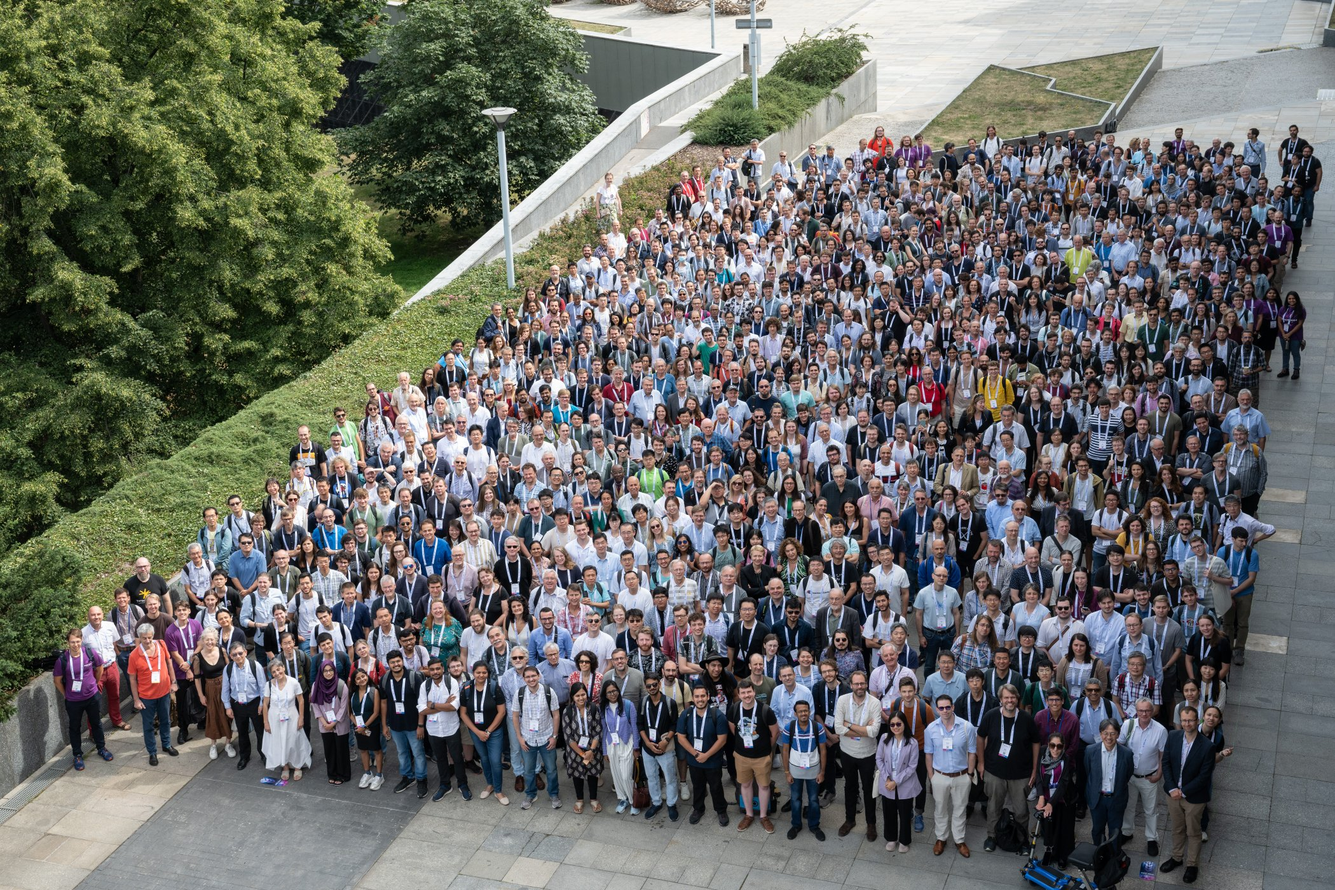
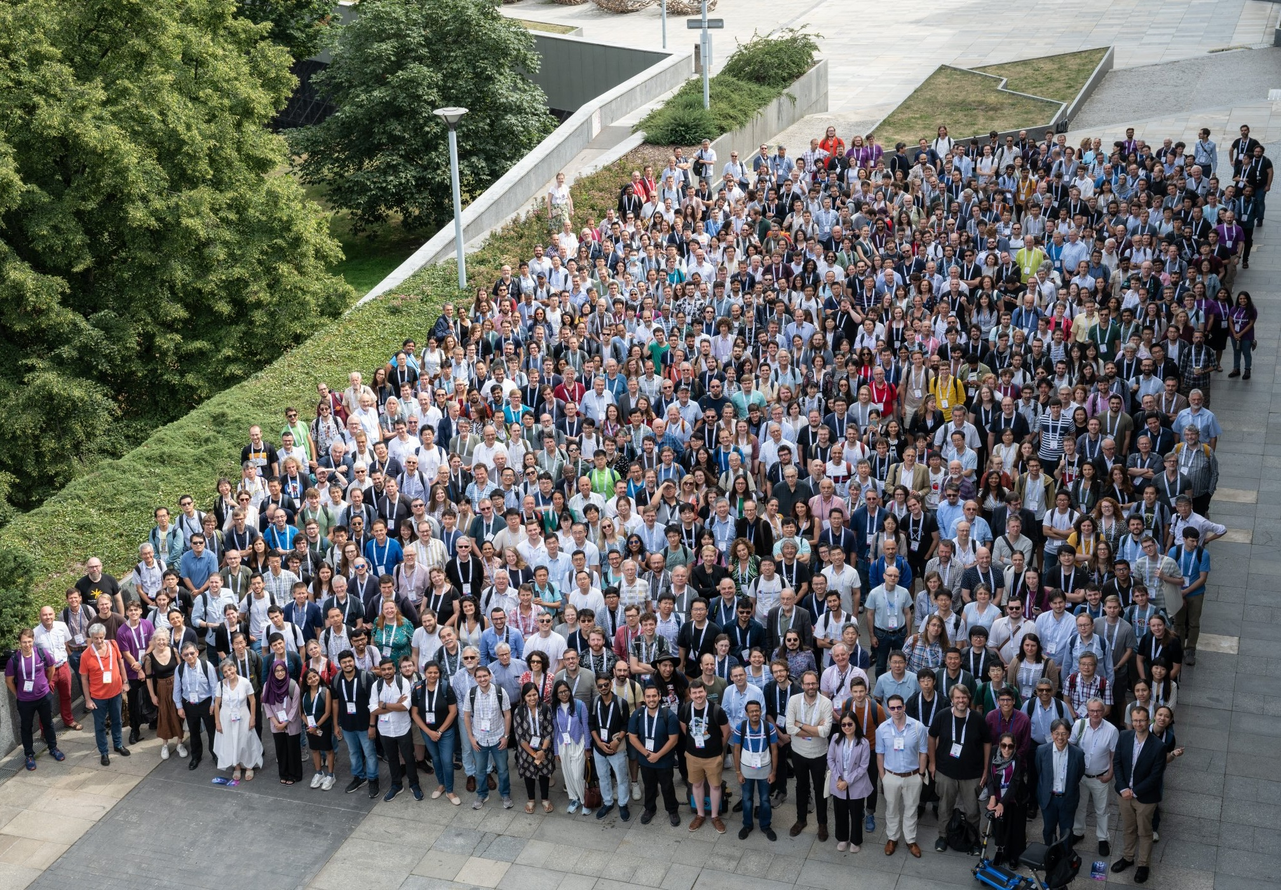
Fix images

diff --git a/outreach.html b/outreach.html
@@ -46,7 +46,7 @@
                 people!!</p>
             </header>
             <a href="#" class="image featured"
-            style="display:block; width:70%; max-width:1000px; margin:0 auto; text-align:center;">
+            style="display:block; width:50%; max-width:3000px; margin:0 auto; text-align:center;">
               <img src="images/outreach.jpeg" alt="" style="width:100%; height:auto; display:block;">
             </a>
             <section>
@@ -72,7 +72,7 @@
                 throughput". In particular, the Leonardo supercomputer and the INFN-CNAF 
                 Tier-1 data center.<br><br>
                 <a href="#" class="image featured"
-                style="display:block; width:70%; max-width:1000px; margin:0 auto; text-align:center;">
+                style="display:block; width:50%; max-width:1000px; margin:0 auto; text-align:center;">
                   <img src="images/leonardo_outreach.jpg" alt="" style="width:100%; height:auto; display:block;">
                 </a></p>
               <p>- In July 2025, I attended the event INFN STEAM Summer Camp, with a laboratory

diff --git a/index.html b/index.html
@@ -96,7 +96,7 @@
             <p>The list of international conferences and schools attended around
               the world! </p>
           </article>
-          <article> <a href="outreach.html" class="image featured"><img src="images/outreach.jpeg"
+          <article> <a href="outreach.html" class="image featured"><img src="images/outreach_about.jpg"
                 alt=""></a>
             <header>
               <h3><a href="outreach.html">Outreach</a></h3>
